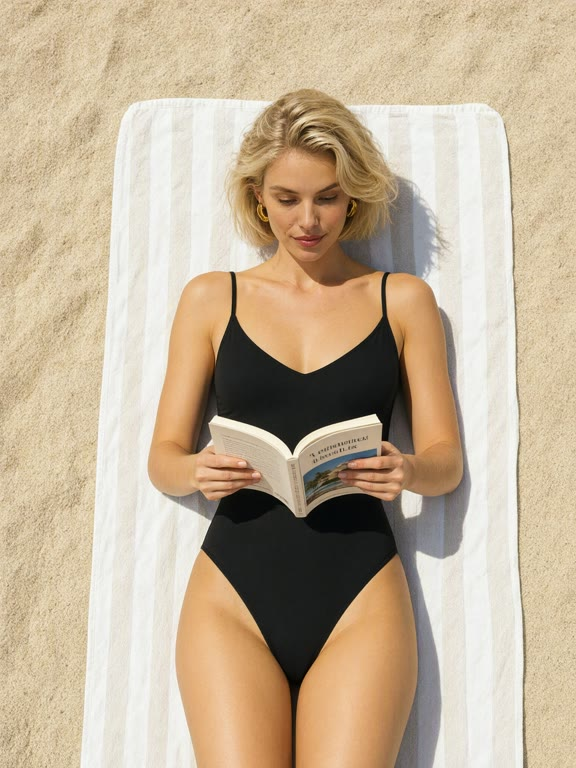
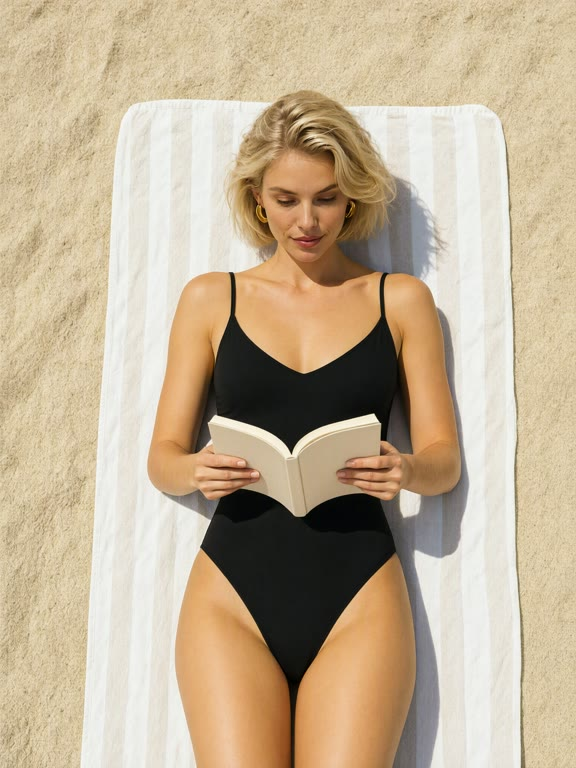
People pickers: Continue on the picked card, bar kept under the grid; three more covers
Fashion Factory templates and Photodump packs: the Continue bar now sits in
flow after the grid and is never sticky, so it can no longer cover a card's
name while scrolling, after a pick or when a saved pick is restored. The
picked card shows its own Continue / Use this pack button. The bar and the
later steps spell the template name as the card does.

New covers: Soul looks Old smartphone and Warm ambient, and a cleaner fourth
frame for the Cool Girl Dump pack.

diff --git a/src/components/fashion/fashion-view.tsx b/src/components/fashion/fashion-view.tsx
@@ -11,7 +11,7 @@ import type { SlotValue } from "@/components/studio/media-slot";
 import { radioKeys, radioTab } from "@/components/studio/radio-keys";
 import { DownloadAll, ResultsGrid } from "@/components/photodump/results";
 import { useRun, useRunPreview } from "@/components/photodump/hooks";
-import { barPlace, CLEAR_OF_BAR, showPicked } from "@/components/photodump/clear-of-bar";
+import { CLEAR_OF_BAR, PICKED_GO, PICKER_BAR, showPicked } from "@/components/photodump/clear-of-bar";
 import { RunLine, Steps } from "@/components/photodump/steps";
 import { CharacterPicker } from "@/components/photodump/subject";
 import { UploadBox } from "@/components/photodump/upload-box";
@@ -83,6 +83,7 @@ export function FashionView() {
     if (msg) toast(msg, { id: "fashion-blocker" });
     return !!msg;
   };
+  const goOn = () => !block(fashionBlocker(s)) && dispatch({ type: "next" });
   const startBase = () => {
     if (block(fashionBlocker(s)) || !baseBody) return;
     base.mutate(baseBody, {
@@ -132,13 +133,18 @@ export function FashionView() {
             {FASHION.map((x) => {
               const sel = x.id === s.templateId;
               return (
-                <div key={x.id} data-picker-card className={cn("min-w-0", CLEAR_OF_BAR)}>
+                <div key={x.id} data-picker-card className={cn("relative min-w-0", CLEAR_OF_BAR)}>
                   <div
                     onClick={(e) => (dispatch({ type: "template", id: x.id }), showPicked(e.currentTarget))}
                     className={cn("relative cursor-pointer overflow-hidden rounded-xl ring-offset-2 ring-offset-background", sel && "ring-3 ring-primary")}
                   >
                     <TemplatePreview t={x} className="aspect-[6/7]" />
                   </div>
+                  {sel && (
+                    <Button className={PICKED_GO} onClick={goOn}>
+                      Continue <ArrowRight />
+                    </Button>
+                  )}
                   <button
                     type="button"
                     role="radio"
@@ -155,9 +161,9 @@ export function FashionView() {
               );
             })}
           </div>
-          <div className={cn(barPlace(!!t), "z-10 flex items-center justify-between gap-3 rounded-2xl border bg-background/95 p-3 shadow-normal backdrop-blur")}>
-            <p className="min-w-0 truncate text-[13px]">{t ? <span className="font-medium">{t.name}</span> : <span className="text-muted-foreground">Pick a template</span>}</p>
-            <Button aria-disabled={!t} className={cn(!t && "opacity-50")} onClick={() => !block(fashionBlocker(s)) && dispatch({ type: "next" })}>
+          <div className={PICKER_BAR}>
+            <p className="min-w-0 truncate text-[13px]">{t ? <span className="font-medium">{titleCase(t.name)}</span> : <span className="text-muted-foreground">Pick a template</span>}</p>
+            <Button aria-disabled={!t} className={cn(!t && "opacity-50")} onClick={goOn}>
               Continue <ArrowRight />
             </Button>
           </div>
@@ -168,7 +174,7 @@ export function FashionView() {
         <section aria-label="Character" className="space-y-4">
           <div>
             <h2 className="font-heading text-[26px] leading-tight">Pick your character</h2>
-            <p className="text-[14px] text-muted-foreground">Select or create the character who wears your product. Next makes 4 base shots in the {t.name} set at 3:4.</p>
+            <p className="text-[14px] text-muted-foreground">Select or create the character who wears your product. Next makes 4 base shots in the {titleCase(t.name)} set at 3:4.</p>
           </div>
           <CharacterPicker value={s.elementId} onChange={(id) => dispatch({ type: "element", id })} />
           <Footer onBack={() => dispatch({ type: "back" })} line={<RunLine preview={baseBody ? preview.data : undefined} loading={preview.isFetching} />}>
@@ -248,7 +254,7 @@ export function FashionView() {
           <div className="flex flex-wrap items-end justify-between gap-3">
             <div>
               <h2 className="font-heading text-[26px] leading-tight">Get your photoset</h2>
-              <p className="text-[14px] text-muted-foreground">{busy(setItems) ? `Shooting ${setItems.length} photos in the ${t.name} set…` : `${t.name} · ${setItems.length} photos`}</p>
+              <p className="text-[14px] text-muted-foreground">{busy(setItems) ? `Shooting ${setItems.length} photos in the ${titleCase(t.name)} set…` : `${titleCase(t.name)} · ${setItems.length} photos`}</p>
             </div>
             <div className="flex flex-wrap gap-2">
               <DownloadAll items={setItems} />

diff --git a/src/lib/template-covers.generated.ts b/src/lib/template-covers.generated.ts
@@ -131,7 +131,7 @@ export const TEMPLATE_COVERS: Record<string, TemplateCoverEntry> = {
   "photodump/alter-ego": {"poster":"/previews/templates/photodump/alter-ego.jpg?v=a7565609","frames":["/previews/templates/photodump/alter-ego-2.jpg?v=198bec16","/previews/templates/photodump/alter-ego-3.jpg?v=8a7ba2fb","/previews/templates/photodump/alter-ego-4.jpg?v=8b31c430"]},
   "photodump/aura-farming": {"poster":"/previews/templates/photodump/aura-farming.jpg?v=c0d40623","frames":["/previews/templates/photodump/aura-farming-2.jpg?v=3ed94ca3","/previews/templates/photodump/aura-farming-3.jpg?v=c80093cc","/previews/templates/photodump/aura-farming-4.jpg?v=ebd29b27"]},
   "photodump/candid-glow": {"poster":"/previews/templates/photodump/candid-glow.jpg?v=865da875","frames":["/previews/templates/photodump/candid-glow-2.jpg?v=2e356e41","/previews/templates/photodump/candid-glow-3.jpg?v=7959981a","/previews/templates/photodump/candid-glow-4.jpg?v=8b609266"]},
-  "photodump/cool-girl-dump": {"poster":"/previews/templates/photodump/cool-girl-dump.jpg?v=c5c49511","frames":["/previews/templates/photodump/cool-girl-dump-2.jpg?v=0bd31047","/previews/templates/photodump/cool-girl-dump-3.jpg?v=2e6534a6","/previews/templates/photodump/cool-girl-dump-4.jpg?v=3bbfbbd3"]},
+  "photodump/cool-girl-dump": {"poster":"/previews/templates/photodump/cool-girl-dump.jpg?v=c5c49511","frames":["/previews/templates/photodump/cool-girl-dump-2.jpg?v=0bd31047","/previews/templates/photodump/cool-girl-dump-3.jpg?v=2e6534a6","/previews/templates/photodump/cool-girl-dump-4.jpg?v=47123445"]},
   "photodump/editorial-shots": {"poster":"/previews/templates/photodump/editorial-shots.jpg?v=cc7e4815","frames":["/previews/templates/photodump/editorial-shots-2.jpg?v=38625581","/previews/templates/photodump/editorial-shots-3.jpg?v=8c5017da","/previews/templates/photodump/editorial-shots-4.jpg?v=faab1b7a"]},
   "photodump/looksmaxing": {"poster":"/previews/templates/photodump/looksmaxing.jpg?v=1b358eeb","frames":["/previews/templates/photodump/looksmaxing-2.jpg?v=ead1155f","/previews/templates/photodump/looksmaxing-3.jpg?v=d1322301","/previews/templates/photodump/looksmaxing-4.jpg?v=31f3b79d"]},
   "photodump/male-archive": {"poster":"/previews/templates/photodump/male-archive.jpg?v=28fbeb43","frames":["/previews/templates/photodump/male-archive-2.jpg?v=5d006868","/previews/templates/photodump/male-archive-3.jpg?v=c4ccf696","/previews/templates/photodump/male-archive-4.jpg?v=d33b1b83"]},
@@ -204,6 +204,7 @@ export const TEMPLATE_COVERS: Record<string, TemplateCoverEntry> = {
   "soul/v2-nature-light": "4c2db0d6",
   "soul/v2-neutral-pastel-film": "faefeddd",
   "soul/v2-new-indie": "c004265a",
+  "soul/v2-old-smartphone": "c18ad8e1",
   "soul/v2-retro-bw": "29bee81f",
   "soul/v2-siren": "4518177d",
   "soul/v2-street-photography": "31eb8402",
@@ -212,6 +213,7 @@ export const TEMPLATE_COVERS: Record<string, TemplateCoverEntry> = {
   "soul/v2-swag-era": "2f7053f1",
   "soul/v2-theatrical-light": "c84e3b30",
   "soul/v2-underwater": "cc916807",
+  "soul/v2-warm-ambient": "5c699f55",
   "soul/v2-warm-contrast-film": "a976d34e",
   "soul/v2-warm-vivid-film": "ba0a31b6",
   "soul/v2-y2k-street": "ed2b9703",

diff --git a/src/components/photodump/clear-of-bar.ts b/src/components/photodump/clear-of-bar.ts
@@ -1,20 +1,23 @@
 /**
  * Picker cards and the Continue bar under a picker grid (Fashion Factory templates, Photodump packs).
  *
- * The bar is sticky only once something is picked; before that it sits after the grid, so it never covers a card's name
- * on first view. A card keeps a bottom scroll margin the size of the bar (about 3.5rem tall, 0.75rem above the phone
- * tabs), so picking it or tabbing to it scrolls the whole card, name included, above the bar.
+ * The bar always sits in flow after the grid, never over it, so no card name is ever covered: not on first view, not
+ * while scrolling, not after a pick and not when a saved pick is restored. The picked card carries its own Continue
+ * button (PICKED_GO), so going on never needs a scroll down to the bar. A card keeps a bottom scroll margin, so picking
+ * it or tabbing to it scrolls the whole card, name included, into view above the phone tabs.
  */
-export const CLEAR_OF_BAR = "scroll-mb-[calc(var(--chrome-bottom)+5.5rem)]";
+export const CLEAR_OF_BAR = "scroll-mb-[calc(var(--chrome-bottom)+1rem)]";
 
-/** The Continue bar's position: sticky above the phone tabs once `picked`, else in flow after the grid. */
-export const barPlace = (picked: boolean) => (picked ? "sticky bottom-[calc(var(--chrome-bottom)+0.75rem)]" : "relative");
+/** The Continue bar under the grid: in flow, never sticky. */
+export const PICKER_BAR = "relative z-10 flex items-center justify-between gap-3 rounded-2xl border bg-background/95 p-3 shadow-normal";
 
-/** Scrolls a picked card (the element carrying CLEAR_OF_BAR) clear of the bar that shows once something is picked. */
+/** The Continue button on the picked card: top left of its cover, clear of the name. */
+export const PICKED_GO = "absolute top-2 left-2 z-10 h-8 rounded-full px-3 text-[12.5px] shadow-normal";
+
+/** Scrolls a picked card (the element carrying CLEAR_OF_BAR) fully into view. */
 export function showPicked(el: Element | null | undefined) {
   const card = el?.closest("[data-picker-card]");
   if (!card) return;
   const smooth = !window.matchMedia?.("(prefers-reduced-motion: reduce)").matches;
-  // After React has rendered the pick, so the bar is already sticky.
   requestAnimationFrame(() => card.scrollIntoView({ block: "nearest", behavior: smooth ? "smooth" : "auto" }));
 }

diff --git a/src/components/photodump/photodump-view.tsx b/src/components/photodump/photodump-view.tsx
@@ -21,7 +21,7 @@ import { onAttr, TAB_PILL, TabRow } from "@/components/ui/tab-row";
 import { linkTab, TabFromLink } from "@/components/nav/tab-from-link";
 import { toastError } from "@/lib/refusals";
 import { useAskFirst } from "./ask-first";
-import { barPlace, CLEAR_OF_BAR, showPicked } from "./clear-of-bar";
+import { CLEAR_OF_BAR, PICKED_GO, PICKER_BAR, showPicked } from "./clear-of-bar";
 import { PackCover } from "./covers";
 import { useOwnsElements, usePhotoCharacters, useRun, useRunPreview, usePackActions, useUserPacks } from "./hooks";
 import { DownloadAll, ResultsGrid, runState } from "./results";
@@ -294,6 +294,11 @@ export function PhotodumpView() {
                   >
                     <PackCover id={p.id} name={p.name} count={p.count} refs={p.refs} hue={p.hue} tone={p.tone} className="aspect-[3/4]" />
                   </button>
+                  {sel && (
+                    <Button className={PICKED_GO} onClick={() => go(1)}>
+                      Use this pack <ArrowRight />
+                    </Button>
+                  )}
                   <p className="mt-1.5 line-clamp-2 px-0.5 text-[12px] text-muted-foreground">
                     {p.custom ? "Your pack · " : ""}{p.description}
                   </p>
@@ -312,7 +317,7 @@ export function PhotodumpView() {
             })}
           </div>
           {!shown.length && <p className="py-10 text-center text-[14px] text-muted-foreground">{tab === "mine" && !needle ? "No packs of your own yet — create one from your reference photos." : `No packs match “${q}”`}</p>}
-          <div className={cn(barPlace(!!pack), "z-10 flex items-center justify-between gap-3 rounded-2xl border bg-background/95 p-3 shadow-normal backdrop-blur")}>
+          <div className={PICKER_BAR}>
             <p className="min-w-0 truncate text-[13px]">{pack ?<><span className="font-medium">{pack.name}</span> · {pack.count} photos</> : <span className="text-muted-foreground">Pick a pack to continue</span>}</p>
             <Button disabled={!pack} onClick={() => go(1)}>
               Use this pack <ArrowRight />
